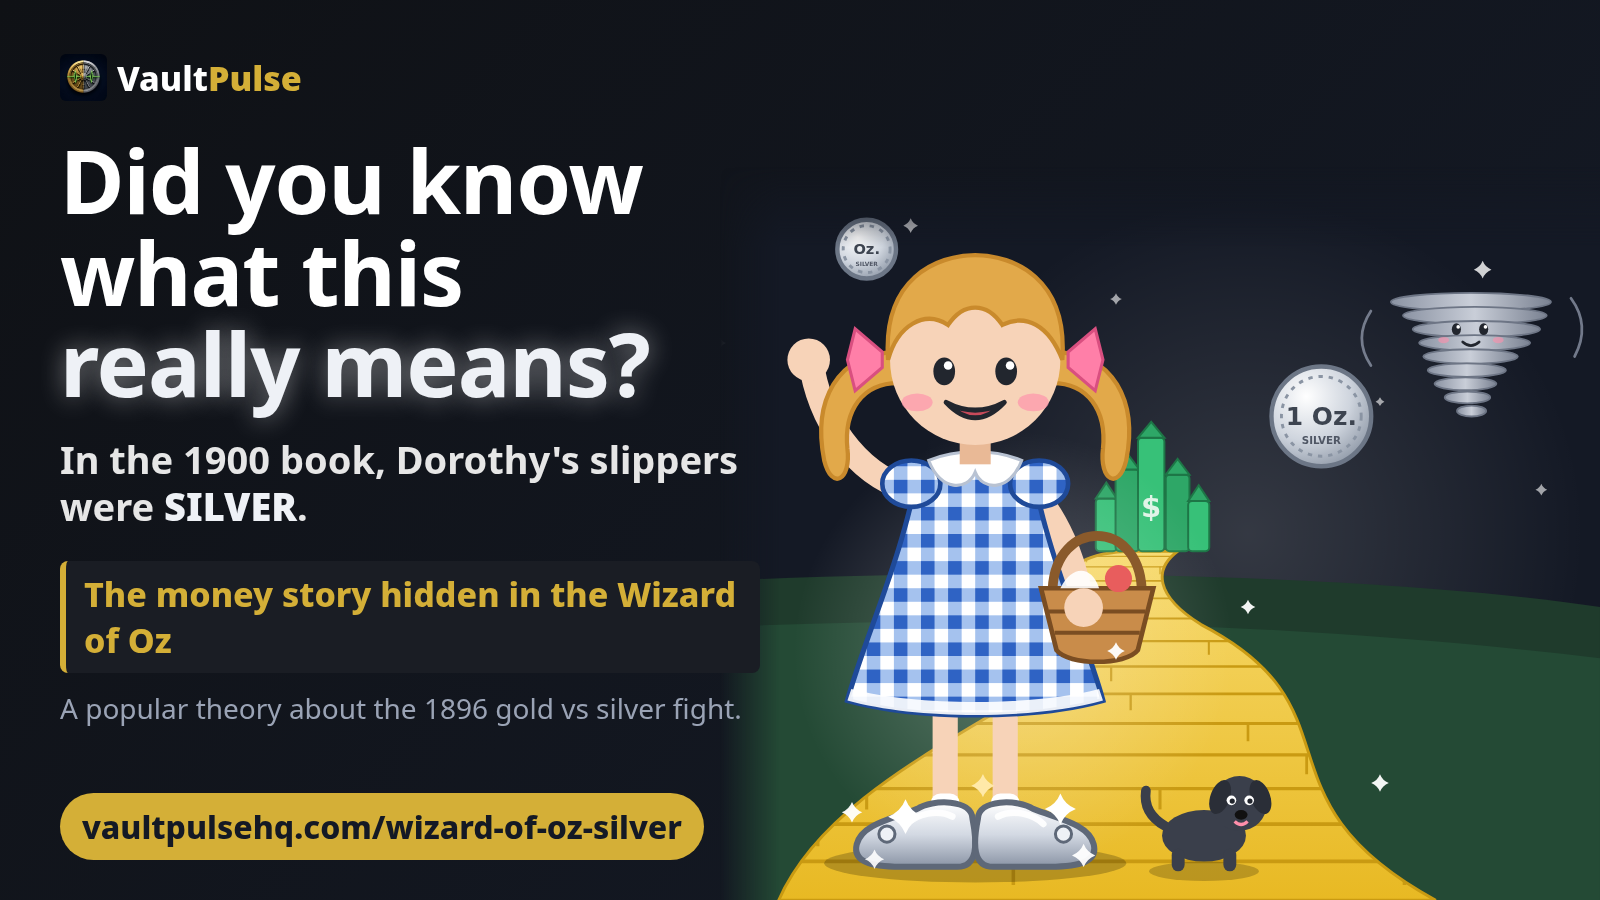
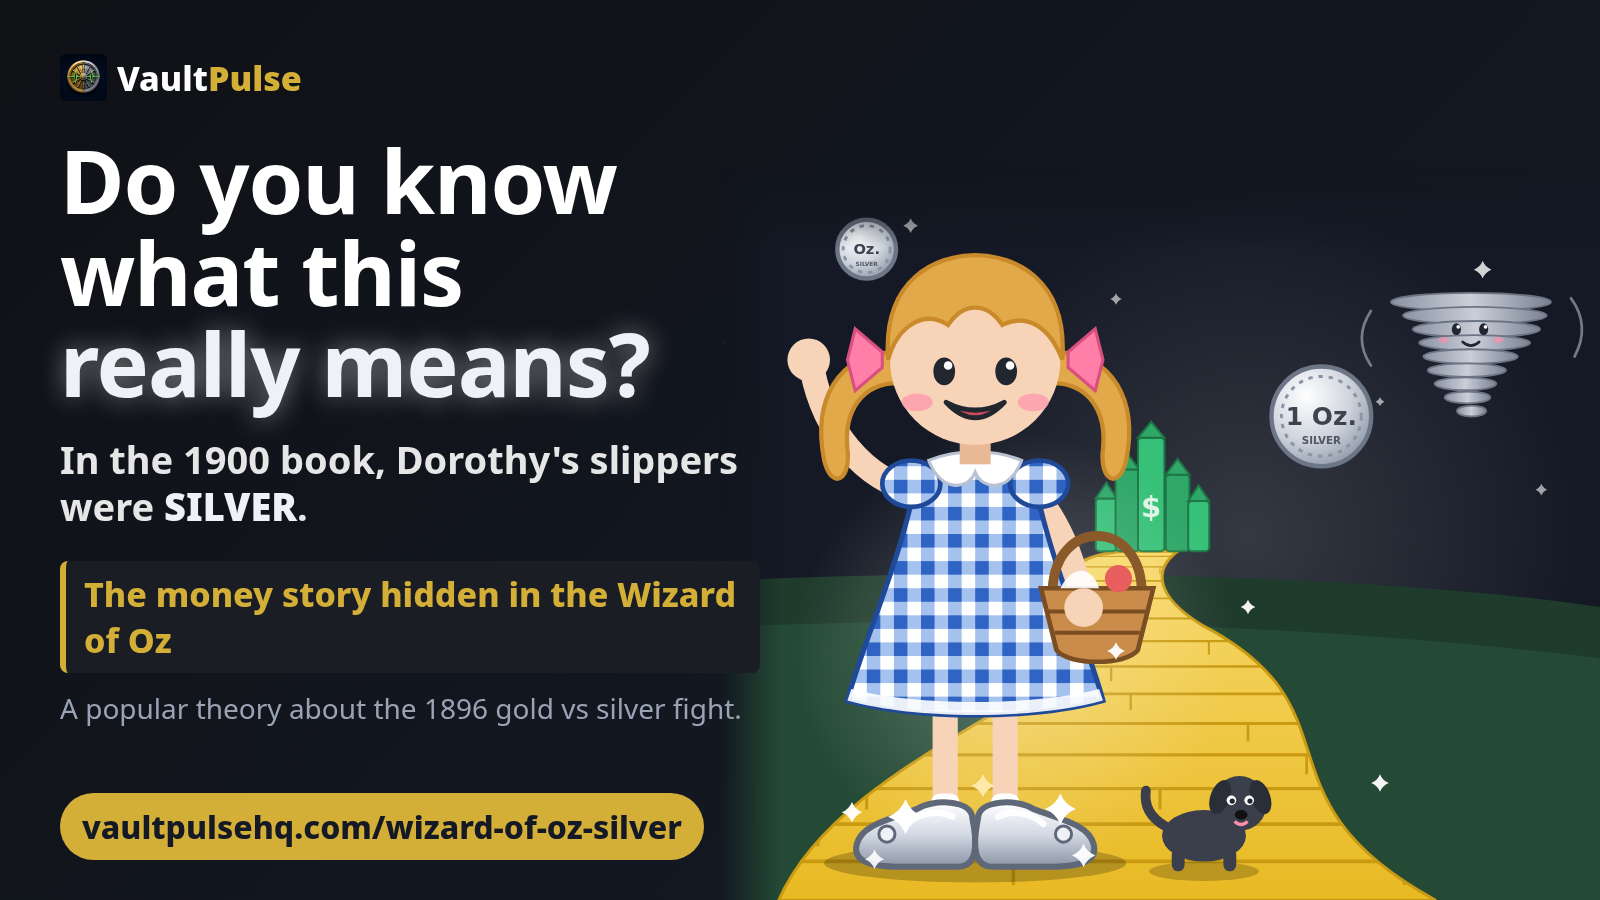
Oz ad headline: Do you know what this really means?

Changed region(s): [[0.0625, 0.1556, 0.4062, 0.28]]

diff --git a/scripts/build_oz_images.py b/scripts/build_oz_images.py
@@ -9,7 +9,7 @@ card=f'''<html><head><style>{CSS}
 h1{{margin:22px 0 0;font-size:56px;line-height:1.06;color:#fff}}h1 .s{{color:#dfe4ec;text-shadow:0 0 18px rgba(255,255,255,.35)}}h1 .g{{color:#f2c94c}}
 p{{margin:16px 0 0;font-size:26px;color:#c8ccd4;line-height:1.3}}.art{{position:absolute;right:0;bottom:0;width:640px;-webkit-mask-image:linear-gradient(90deg,transparent 0,#000 50px),linear-gradient(transparent 0,#000 60px);-webkit-mask-composite:source-in}}
 .u{{position:absolute;left:44px;bottom:30px;font-size:22px;color:#9aa3b5;font-weight:700}}</style></head>
-<body><div class="w"><div class="art">{oz_art.scene2('c','200 0 600 500')}</div><div class="t">{LOGO(26)}<h1>Did you know what this <span class="s">really means?</span></h1><p>In the 1900 book, Dorothy's slippers were <b style="color:#eef1f6">SILVER</b>. The Wizard of Oz and the 1896 gold vs silver fight, a popular theory explained.</p></div><div class="u">vaultpulsehq.com/wizard-of-oz-silver</div></div></body></html>'''
+<body><div class="w"><div class="art">{oz_art.scene2('c','200 0 600 500')}</div><div class="t">{LOGO(26)}<h1>Do you know what this <span class="s">really means?</span></h1><p>In the 1900 book, Dorothy's slippers were <b style="color:#eef1f6">SILVER</b>. The Wizard of Oz and the 1896 gold vs silver fight, a popular theory explained.</p></div><div class="u">vaultpulsehq.com/wizard-of-oz-silver</div></div></body></html>'''
 x=f'''<html><head><style>{CSS}
 .w{{position:relative;width:1600px;height:900px;background:linear-gradient(135deg,#0f1115,#151b28)}}
 .art{{position:absolute;right:0;bottom:0;width:880px;-webkit-mask-image:linear-gradient(90deg,transparent 0,#000 60px),linear-gradient(transparent 0,#000 80px);-webkit-mask-composite:source-in}}
@@ -20,7 +20,7 @@ h1{{margin:34px 0 0;font-size:88px;line-height:1.04;color:#fff;letter-spacing:-1
 .n{{margin-top:16px;font-size:28px;color:#9aa3b5}}.f{{position:absolute;left:60px;bottom:40px;font-size:32px;font-weight:800;color:#fff;background:#d4af37;color:#141925;padding:12px 22px;border-radius:40px}}
 .sp{{position:absolute;color:#fff;font-size:40px}}</style></head>
 <body><div class="w"><div class="art">{oz_art.scene2('x','200 0 600 500')}</div><div class="t">{LOGO(34)}
-<h1>Did you know what this <span class="s">really means?</span></h1>
+<h1>Do you know what this <span class="s">really means?</span></h1>
 <div class="q">In the 1900 book, Dorothy's slippers were <i>SILVER</i>.</div>
 <div class="k">The money story hidden in the Wizard of Oz</div><div class="n">A popular theory about the 1896 gold vs silver fight.</div></div>
 <div class="f">vaultpulsehq.com/wizard-of-oz-silver</div></div></body></html>'''
